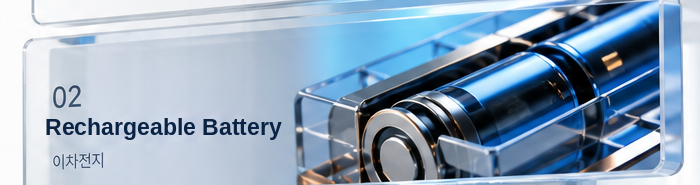
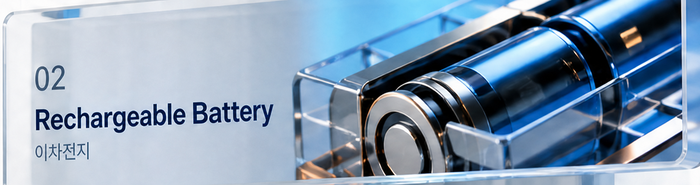
fix: Rechargeable Battery 3D 글래스 원근 투영 및 수평 기준선 완벽 정렬 리터칭 (v3.3)

diff --git a/service-worker.js b/service-worker.js
@@ -1,5 +1,5 @@
 // 숭실대학교 화학공학과 공식 PWA Service Worker (v3.2 Network-First)
-const CACHE_NAME = 'ssu-cheme-v3.2';
+const CACHE_NAME = 'ssu-cheme-v3.3';
 const ASSETS_TO_CACHE = [
   './',
   './index.html',
